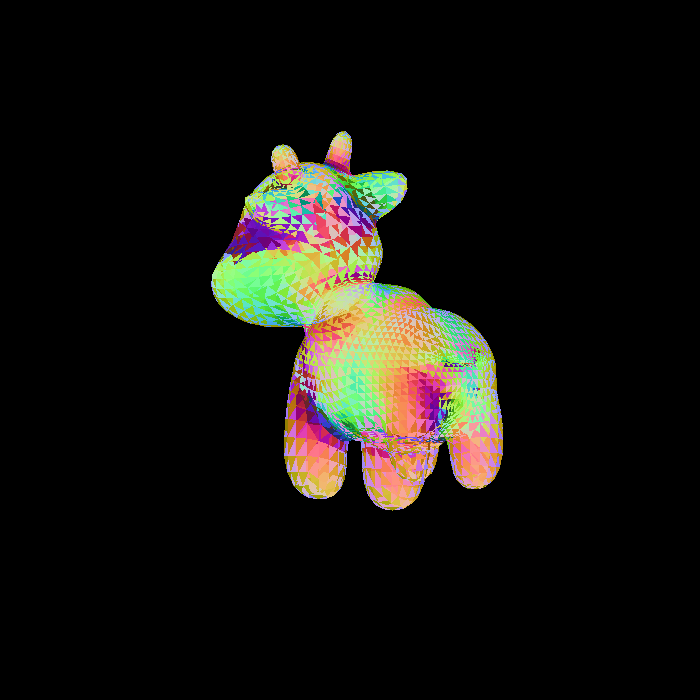
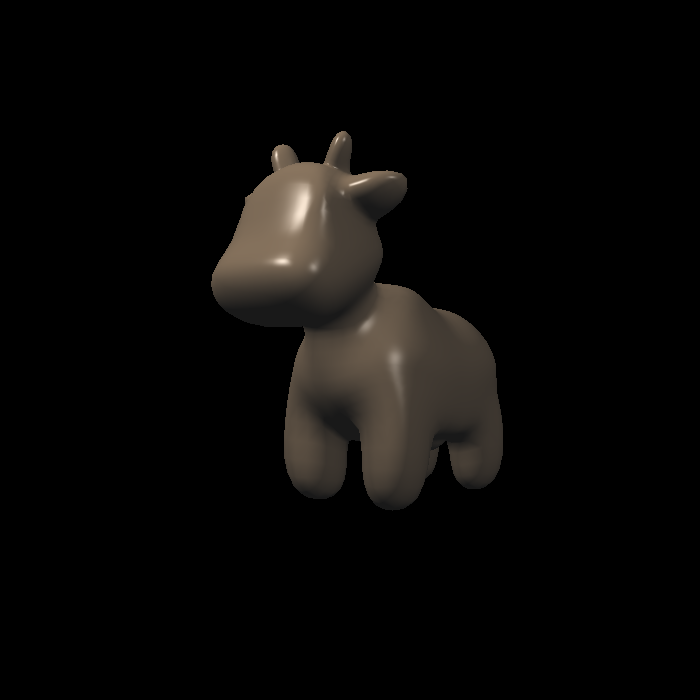
Debug:角平分线计算，纹理查询范围限制

Changed region(s): [[0.3, 0.18, 0.72, 0.75]]

diff --git a/Assignment_03/main.cpp b/Assignment_03/main.cpp
@@ -7,6 +7,7 @@
 #include "Shader.hpp"
 #include "Texture.hpp"
 #include "OBJ_Loader.h"
+#include <algorithm>
 
 Eigen::Matrix4f get_view_matrix(Eigen::Vector3f eye_pos)
 {
@@ -100,7 +101,12 @@ Eigen::Vector3f texture_fragment_shader(const fragment_shader_payload& payload)
     if (payload.texture)
     {
         // TODO: Get the texture value at the texture coordinates of the current fragment
-		return_color = payload.texture->getColor(payload.tex_coords.x(), payload.tex_coords.y());
+		float u = payload.tex_coords.x() ;
+		float v = payload.tex_coords.y() ;
+		u = std::min(std::max(u, 0.0f), 0.9999f);
+		v = std::min(std::max(v, 0.0f), 0.9999f);
+
+        return_color = payload.texture->getColor(u,v);
     }
     Eigen::Vector3f texture_color;
     texture_color << return_color.x(), return_color.y(), return_color.z();
@@ -164,8 +170,9 @@ Eigen::Vector3f phong_fragment_shader(const fragment_shader_payload& payload)
         // TODO: For each light source in the code, calculate what the *ambient*, *diffuse*, and *specular* 
         // components are. Then, accumulate that result on the *result_color* object.
         Eigen::Vector3f Ld = kd.cwiseProduct(light.intensity / (point - light.position).squaredNorm() * std::max(0.0f, normal.normalized().dot((light.position - point).normalized())));
-
-        Eigen::Vector3f h = ((light.position - point) + (eye_pos - point)).normalized();
+        Eigen::Vector3f l = (light.position - point).normalized();
+        Eigen::Vector3f r = (eye_pos - point).normalized();
+        Eigen::Vector3f h = (l + r).normalized();
         Eigen::Vector3f Ls = ks.cwiseProduct(light.intensity / (point - light.position).squaredNorm() * std::pow(std::max(0.0f, normal.normalized().dot(h)), p));
         Eigen::Vector3f La = ka.cwiseProduct(amb_light_intensity);
         result_color += La + Ld + Ls;
@@ -211,6 +218,8 @@ Eigen::Vector3f displacement_fragment_shader(const fragment_shader_payload& payl
 
 	float u = payload.tex_coords.x();
 	float v = payload.tex_coords.y();
+    u = std::min(std::max(u, 0.0f), 0.9999f);
+    v = std::min(std::max(v, 0.0f), 0.9999f);
 	float w = payload.texture->width;
     float h = payload.texture->height;
 

diff --git a/Assignment_03/rasterizer.cpp b/Assignment_03/rasterizer.cpp
@@ -259,7 +259,7 @@ static Eigen::Vector2f interpolate(float alpha, float beta, float gamma, const E
 //Screen space rasterization
 void rst::rasterizer::rasterize_triangle(const Triangle& t, const std::array<Eigen::Vector3f, 3>& view_pos)
 {
-	auto v = t.toVector4();
+	auto v = t.v;
 
 	float x_max1 = std::max({ v[0].x(), v[1].x(), v[2].x() });
 	float x_min1 = std::min({ v[0].x(), v[1].x(), v[2].x() });
@@ -279,28 +279,9 @@ void rst::rasterizer::rasterize_triangle(const Triangle& t, const std::array<Eig
 	for (int x = x_min; x <= x_max; x++) {
 		for (int y = y_min; y <= y_max; y++) {
 			if (insideTriangle(x + 0.5f, y + 0.5f, t.v)) {
-				Vector4f v0 = {
-					view_pos[0].x(),
-					view_pos[0].y(),
-					view_pos[0].z(),
-					v[0].w()
-				};
-				Vector4f v1 = {
-					view_pos[1].x(),
-					view_pos[1].y(),
-					view_pos[1].z(),
-					v[1].w()
-				};
-				Vector4f v2 = {
-					view_pos[2].x(),
-					view_pos[2].y(),
-					view_pos[2].z(),
-					v[2].w()
-				};
-				Vector4f vp[3] = { v0, v1, v2 };
-				auto [alpha, beta, gamma] = computeBarycentric2D(x, y, vp);
+				auto [alpha, beta, gamma] = computeBarycentric2D(x, y, t.v);
 				float Z = 1.0f / (alpha / v[0].w() + beta / v[1].w() + gamma / v[2].w());
-				float zp = alpha * v[0].z() / v[0].w() + beta * view_pos[1].z() / v[1].w() + gamma * view_pos[2].z() / v[2].w();
+				float zp = alpha * v[0].z() / v[0].w() + beta * v[1].z() / v[1].w() + gamma * v[2].z() / v[2].w();
 				zp *= Z;
 
 				// TODO: Interpolate the attributes:
@@ -322,7 +303,7 @@ void rst::rasterizer::rasterize_triangle(const Triangle& t, const std::array<Eig
 			}
 		}
 	}
-}
+} 
 	void rst::rasterizer::set_model(const Eigen::Matrix4f & m)
 	{
 		model = m;
